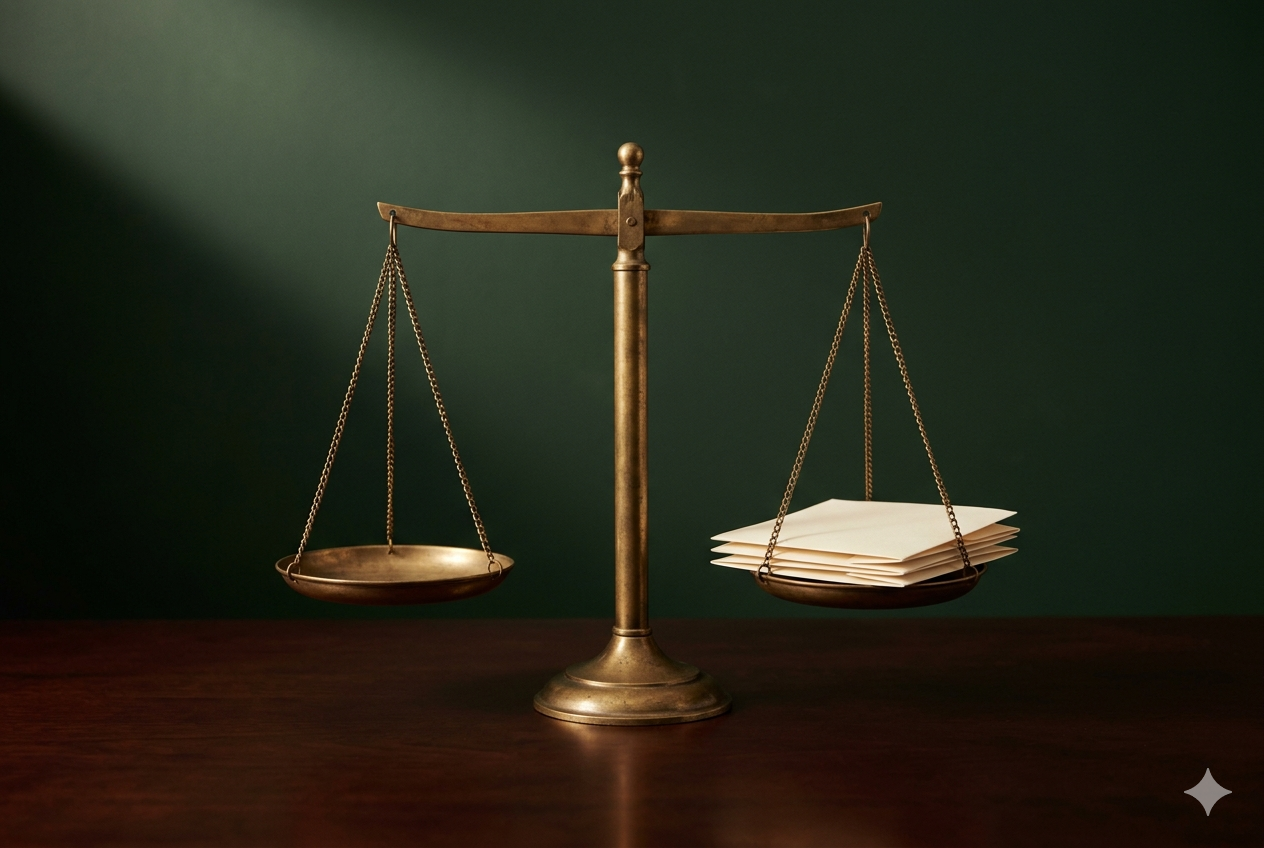
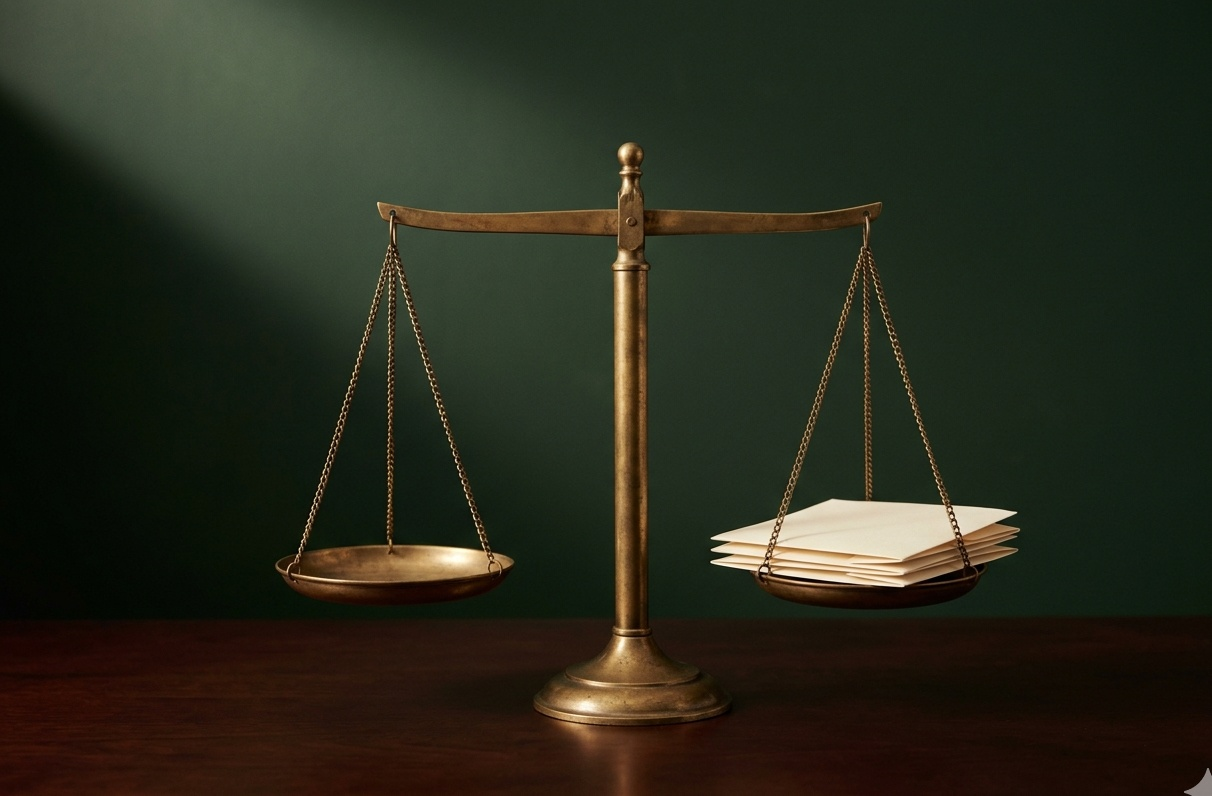
Remove Gemini watermarks, resequence insight dates Oct 2025–Mar 2026
- Cropped 52px from bottom-right of all 7 images to remove 4-point star watermark
- Insights dates now sequential, one per month: March 2026, February 2026, January 2026, December 2025, November 2025, October 2025

diff --git a/app/insights/page.tsx b/app/insights/page.tsx
@@ -9,7 +9,7 @@ const BODY = "'Archivo', 'Helvetica Neue', Arial, sans-serif";
 const articles = [
   {
     category: "Capital Efficiency",
-    date: "February 2026",
+    date: "March 2026",
     readTime: "2 min read",
     title: "Capital Efficiency Is a Condition, Not a Goal",
     excerpt: "Most discussions about capital efficiency start in the wrong place. Efficiency is not something you achieve — it is a condition you either maintain or let erode.",
@@ -27,7 +27,7 @@ const articles = [
   },
   {
     category: "Private Investments",
-    date: "December 2025",
+    date: "January 2026",
     readTime: "2 min read",
     title: "Private Investments Need Roles, Not Just Returns",
     excerpt: "Private investments fail more often from confusion than conviction. The issue is rarely access. It's clarity of purpose.",
@@ -54,7 +54,7 @@ const articles = [
   },
   {
     category: "Long-Term Planning",
-    date: "November 2025",
+    date: "October 2025",
     readTime: "2 min read",
     title: "The Case for Disciplined Diversification",
     excerpt: "Most portfolios are diversified. Very few are disciplined. The difference isn't the number of assets — it's whether diversification was designed to withstand different kinds of stress.",
